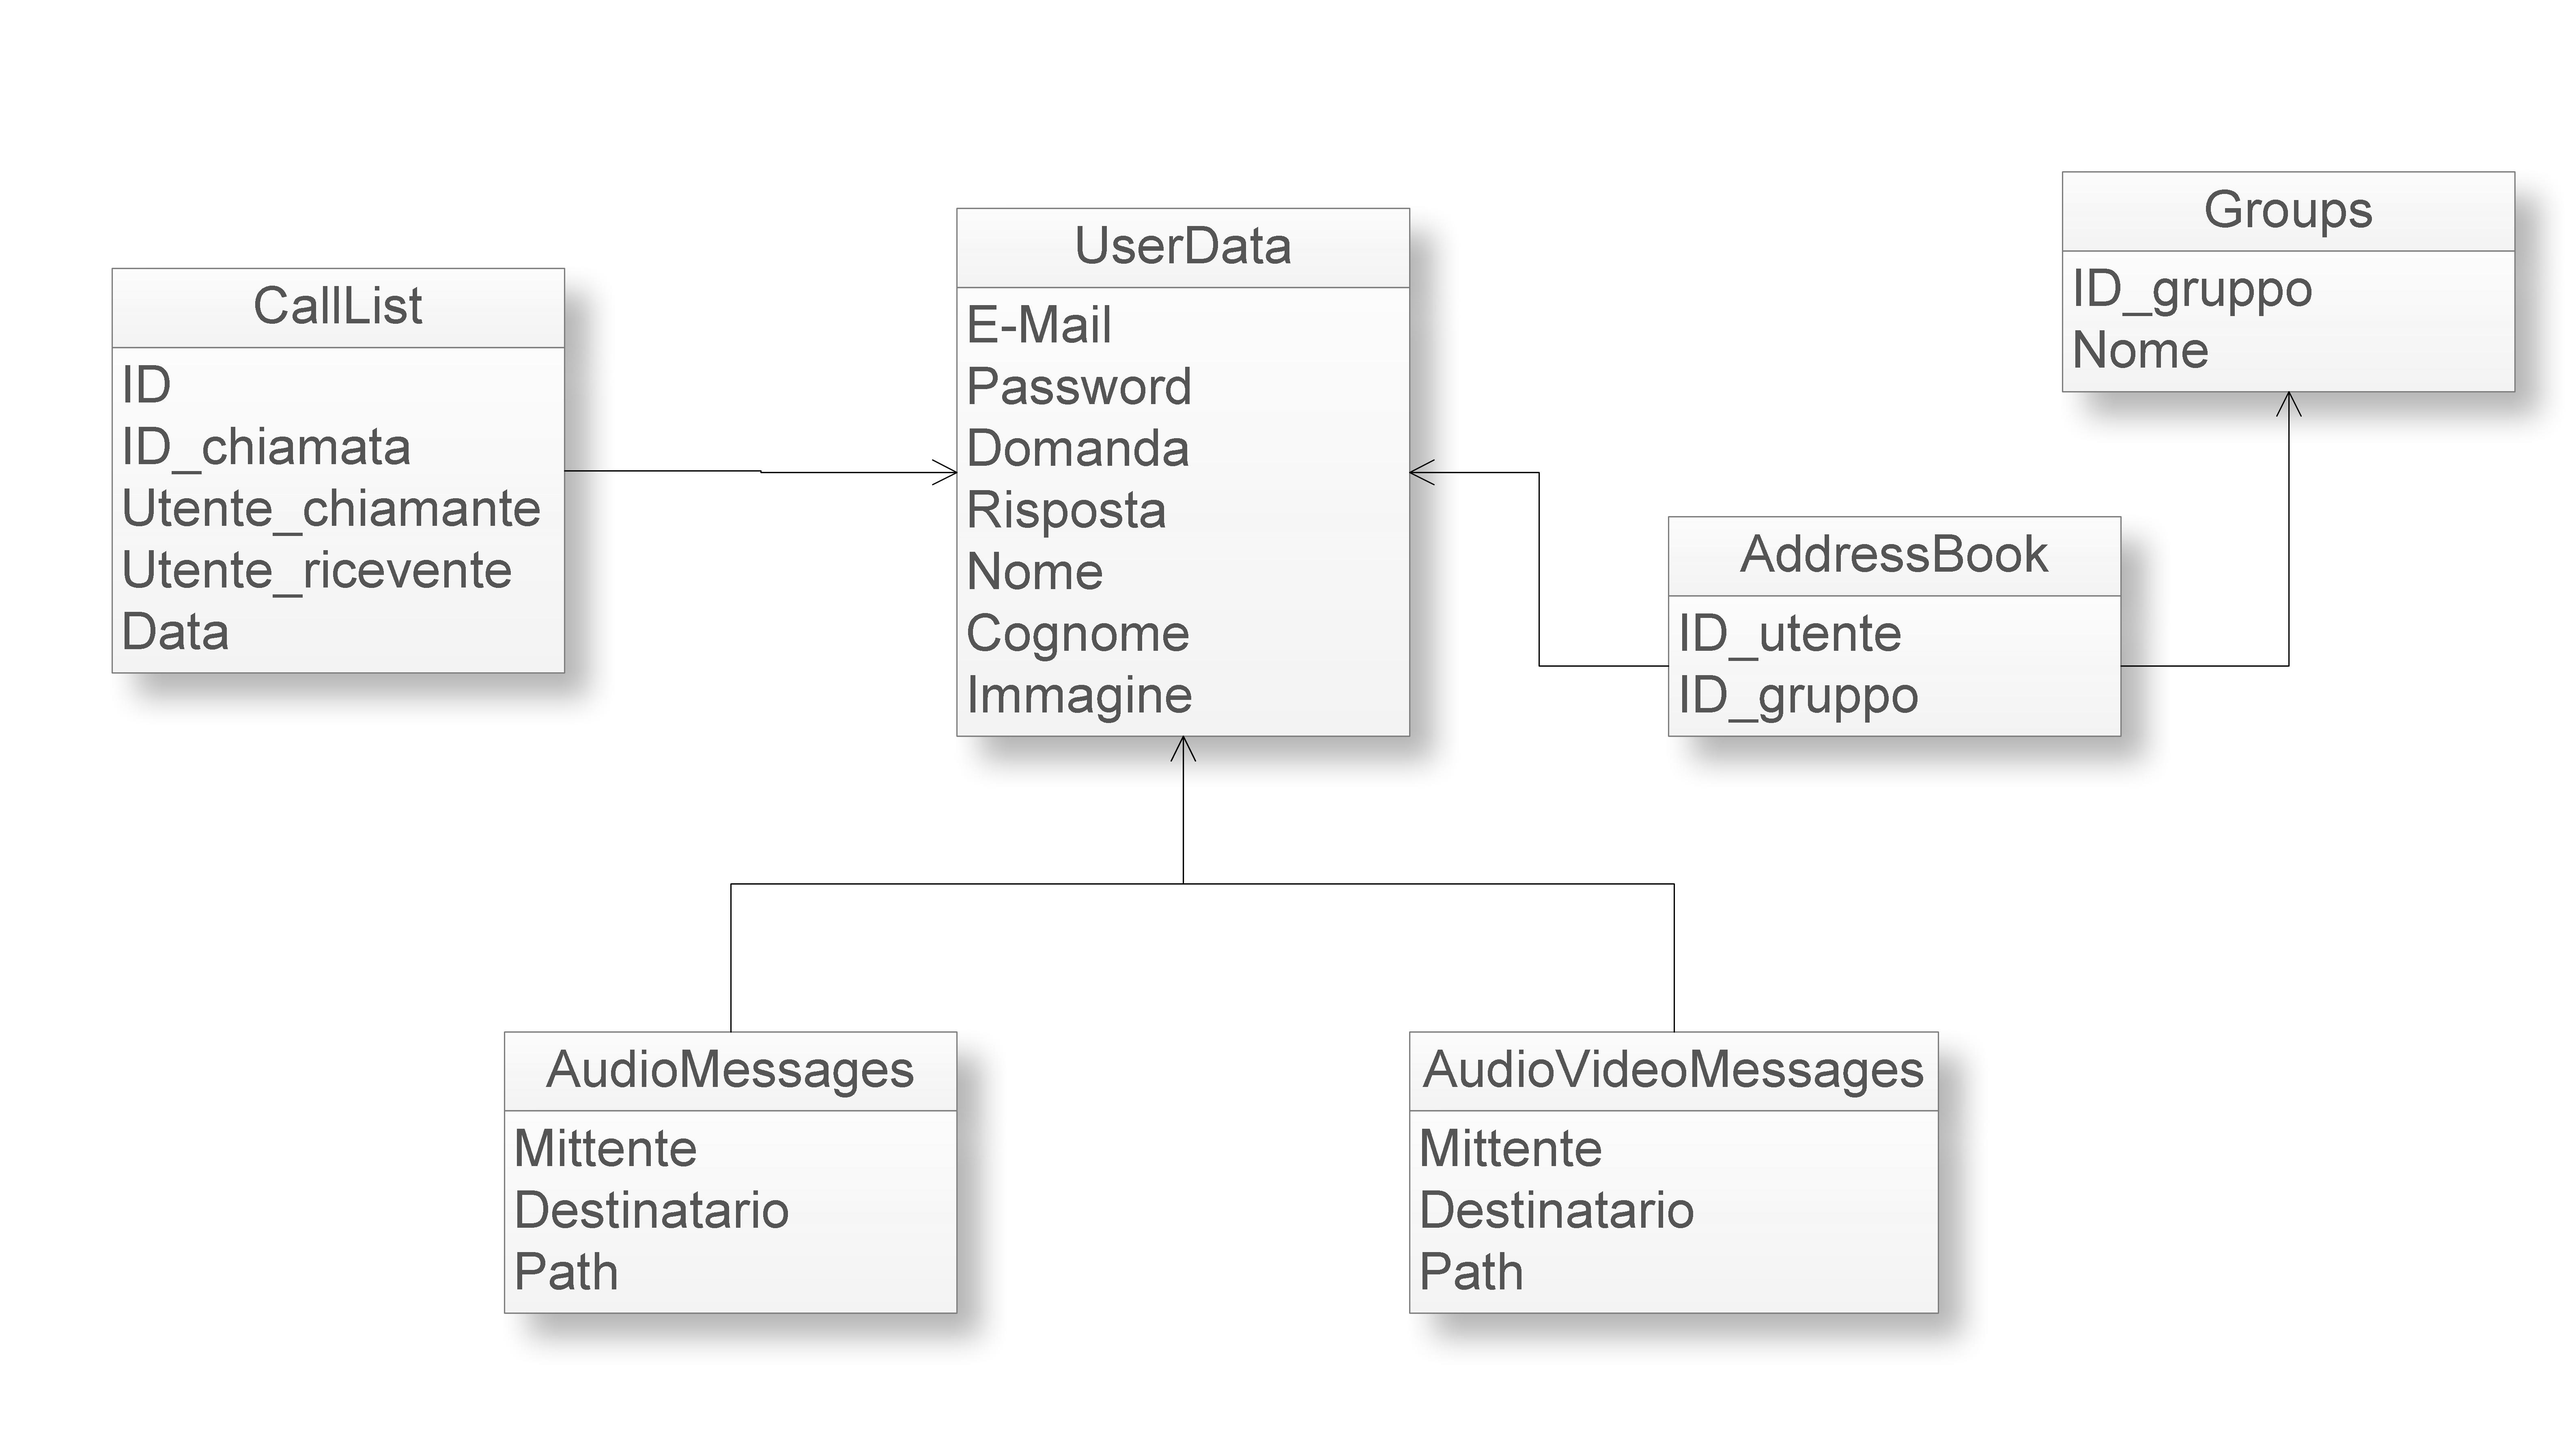
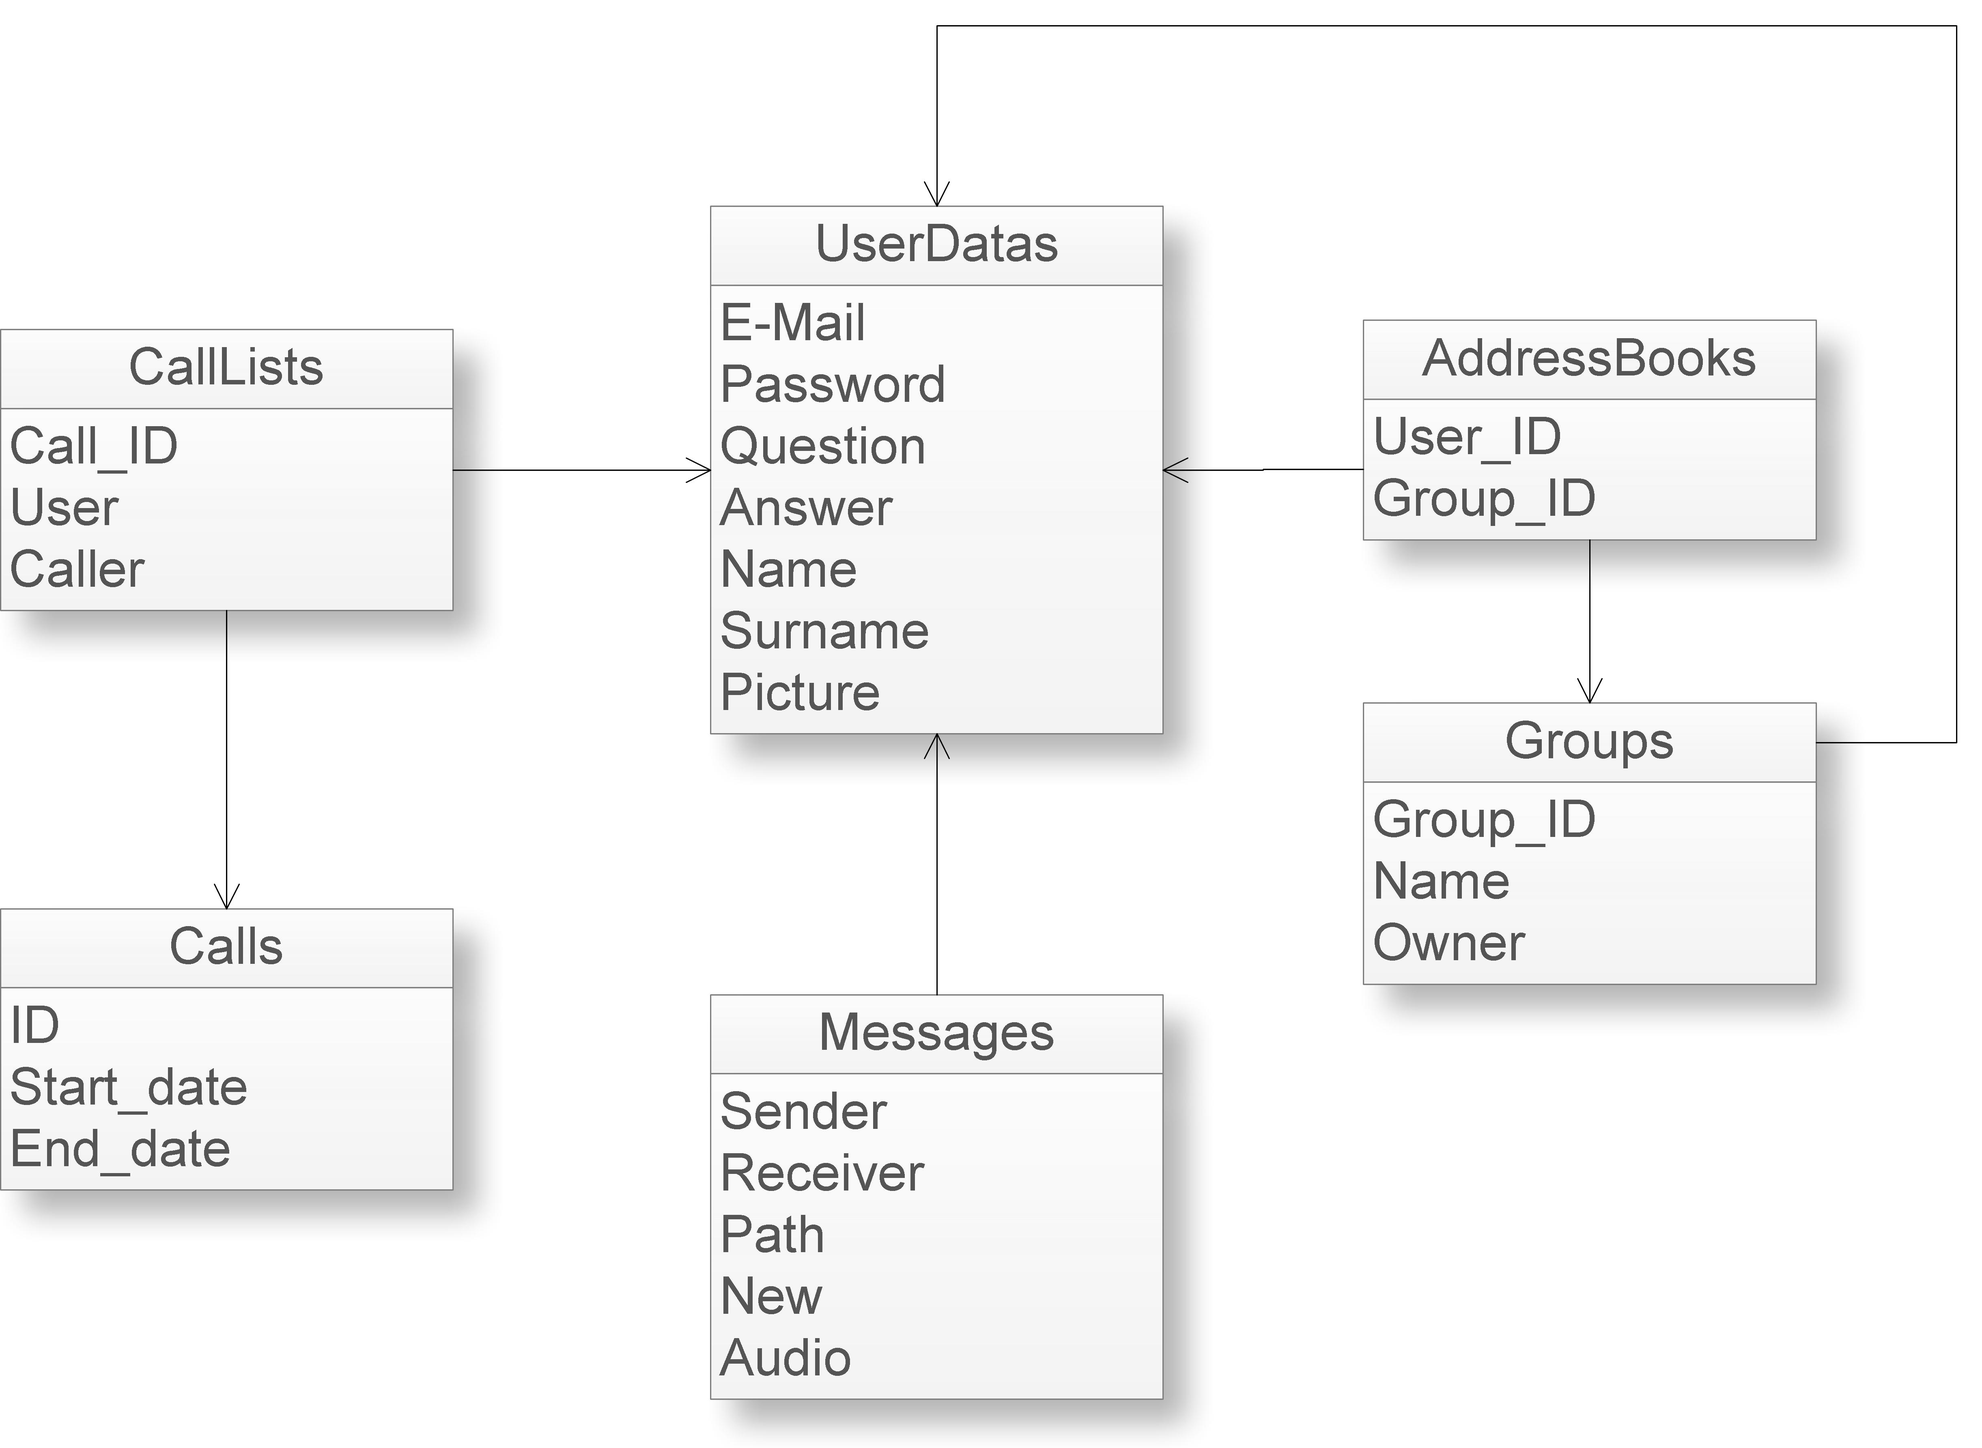
Correzione bug sulla sezione database
Corretti bug sui nomi delle entità e esportata nuovamente l'immagine del
modello logico

diff --git a/Documents/specifica_tecnica/specifica_tecnica.tex b/Documents/specifica_tecnica/specifica_tecnica.tex
@@ -431,7 +431,7 @@ Con la progettazione concettuale definiremo una struttura ``concettuale'' della 
 \subsubsection{Lista delle classi}
 
 \begin{description}
-	\item{\scshape\bfseries UserDatas}: è l'entità le cui istanze rappresentano gli utenti registrati nel sistema. UserDatas è caratterizzata dai seguenti attributi:
+	\item{\scshape\bfseries UserData}: è l'entità le cui istanze rappresentano gli utenti registrati nel sistema. UserData è caratterizzata dai seguenti attributi:
 
 \begin{center}
 \rowcolors{2}{lightblue}{llightblue}
@@ -510,10 +510,10 @@ New & Boolean & NO & \\
 \subsubsection{Associazione tra classi}
 
 \begin{description}
-	\item{\scshape\bfseries UserDatas - Calls (molti a molti)}: tale associazione rappresenta il legame che intercorre tra gli utenti e le chiamate. Tale associazione è del tipo molti a molti, con totalità parziale verso Calls e totalità totale verso UserDatas.
-	\item{\scshape\bfseries UserDatas - Groups (molti a molti)}: tale associazione rappresenta il legame che intercorre tra gli utenti ed i gruppi, per la quale si è deciso di usare un associazione molti a molti con totalità parziale solo da Groups a UserDatas. Ciò significa che: un utente può comparire in zero o più gruppi (in ragione del fatto che potrebbe esserci più di qualcuno che registra un dato utente nella propria rubrica), ed un utente può possedere uno o più gruppi.
-	\item{\scshape\bfseries UserDatas - Groups (uno a molti)}: tale associazione rappresenta il legame che intercorre tra il proprietario del gruppo e il gruppo stesso. L'associazione è del tipo uno a molti, a rappresentare come un gruppo sia visualizzabile unicamente dal proprietario, mentre un utente può avere (e di conseguenza visualizzare) più gruppi.
-	\item{\scshape\bfseries UserDatas - Messages (uno a molti)}: tale associazione rappresenta il legame che intercorre tra gli utenti ed i messaggi registrati nella sua segreteria. L'associazione è del tipo uno a molti verso Messages, con totalità parziale verso Messages e totalità totale verso UserDatas. L'idea alla base è che un utente può avere nella propria segreteria uno o più messaggi, così come può non averne nessuno, mentre ogni messaggio della segreteria è ``visionabile'' da un unico utente, il destinatario del messaggio.
+	\item{\scshape\bfseries UserData - Calls (molti a molti)}: tale associazione rappresenta il legame che intercorre tra gli utenti e le chiamate. Tale associazione è del tipo molti a molti, con totalità parziale verso Calls e totalità totale verso UserData.
+	\item{\scshape\bfseries UserData - Groups (molti a molti)}: tale associazione rappresenta il legame che intercorre tra gli utenti ed i gruppi, per la quale si è deciso di usare un associazione molti a molti con totalità parziale solo da Groups a UserData. Ciò significa che: un utente può comparire in zero o più gruppi (in ragione del fatto che potrebbe esserci più di qualcuno che registra un dato utente nella propria rubrica), ed un utente può possedere uno o più gruppi.
+	\item{\scshape\bfseries UserData - Groups (uno a molti)}: tale associazione rappresenta il legame che intercorre tra il proprietario del gruppo e il gruppo stesso. L'associazione è del tipo uno a molti, a rappresentare come un gruppo sia visualizzabile unicamente dal proprietario, mentre un utente può avere (e di conseguenza visualizzare) più gruppi.
+	\item{\scshape\bfseries UserData - Messages (uno a molti)}: tale associazione rappresenta il legame che intercorre tra gli utenti ed i messaggi registrati nella sua segreteria. L'associazione è del tipo uno a molti verso Messages, con totalità parziale verso Messages e totalità totale verso UserData. L'idea alla base è che un utente può avere nella propria segreteria uno o più messaggi, così come può non averne nessuno, mentre ogni messaggio della segreteria è ``visionabile'' da un unico utente, il destinatario del messaggio.
 \end{description}
 
 \subsection{Progettazione logica}
@@ -528,17 +528,17 @@ Con la progettazione logica intendiamo costruire la struttura definitiva del \un
 \subsubsection{Rappresentazione delle associazioni}
 
 \begin{description}
-	\item{\scshape\bfseries UserDatas - Calls}: tale associazione si è risolta attraverso l'introduzione dell'entità CallList. Tale entità contiene l'attributo User come chiave esterna verso l'entità UserDatas e l'attributo Call\_ID come chiave esterna verso l'entità Calls. È dotata inoltre dell'attributo Caller che identifica colui che ha per primo avviato la chiamata; per ogni gruppo di ennuple aventi lo stesso Call\_ID si avrà soltanto una ennupla contrassegnata con il campo Caller a vero.
-	\item{\scshape\bfseries UserDatas - Groups}: tale associazione si è risolta con la creazione di una terza entità denominata AddressBooks, che contiene una chiave esterna verso UserDatas e una chiave esterna verso Groups.
-	\item{\scshape\bfseries UserDatas - Groups}: tale associazione si è risolta trasformando l'attributo Owner in una chiave esterna verso UserDatas.
-	\item{\scshape\bfseries UserDatas - Messages}: tale associazione si è risolta inserendo una chiave esterna verso UserDatas, all'interno dell'entità Messages.
+	\item{\scshape\bfseries UserData - Calls}: tale associazione si è risolta attraverso l'introduzione dell'entità CallLists. Tale entità contiene l'attributo User come chiave esterna verso l'entità UserData e l'attributo Call\_ID come chiave esterna verso l'entità Calls. È dotata inoltre dell'attributo Caller che identifica colui che ha per primo avviato la chiamata; per ogni gruppo di ennuple aventi lo stesso Call\_ID si avrà soltanto una ennupla contrassegnata con il campo Caller a vero.
+	\item{\scshape\bfseries UserData - Groups}: tale associazione si è risolta con la creazione di una terza entità denominata AddressBooks, che contiene una chiave esterna verso UserData e una chiave esterna verso Groups.
+	\item{\scshape\bfseries UserData - Groups}: tale associazione si è risolta trasformando l'attributo Owner in una chiave esterna verso UserData.
+	\item{\scshape\bfseries UserData - Messages}: tale associazione si è risolta inserendo una chiave esterna verso UserData, all'interno dell'entità Messages.
 \end{description}
 
 \subsubsection{Lista delle classi}
 
 \begin{center}
 
-UserDatas
+UserData
 
 \rowcolors{2}{lightblue}{llightblue}
 \begin{center}
@@ -572,7 +572,7 @@ End\_date & Datetime & SI &\\
 \end{tabular}
 \end{center}
 
-CallList
+CallLists
 
 \begin{center}
 \rowcolors{2}{lightblue}{llightblue}
@@ -581,7 +581,7 @@ CallList
 Nome attributo & Tipo & Opzionale & Vincoli\\
 \midrule % inserire qui il contenuto della tabella
 Call\_ID & int & NO & PrimaryKey e ForeignKey verso Calls\\
-User & Varchar(100) & NO & PrimaryKey e ForeignKey verso UserDatas \\
+User & Varchar(100) & NO & PrimaryKey e ForeignKey verso UserData \\
 Caller & Boolean & NO &\\
 \bottomrule
 \end{tabular}
@@ -595,7 +595,7 @@ AddressBooks
 \toprule
 Nome attributo & Tipo & Opzionale & Vincoli\\
 \midrule % inserire qui il contenuto della tabella
-User\_ID & Varchar(100) & NO & PrimaryKey e ForeignKey verso UserDatas\\
+User\_ID & Varchar(100) & NO & PrimaryKey e ForeignKey verso UserData\\
 Group\_ID & int & NO & PrimaryKey e ForeignKey verso Groups\\
 \bottomrule
 \end{tabular}
@@ -611,7 +611,7 @@ Nome attributo & Tipo & Opzionale & Vincoli\\
 \midrule % inserire qui il contenuto della tabella
 Group\_ID & int & NO & PrimaryKey\\
 Name & Varchar(100) & NO & \\
-Owner & Varchar(100) & NO & ForeignKey verso UserDatas\\
+Owner & Varchar(100) & NO & ForeignKey verso UserData\\
 \bottomrule
 \end{tabular}
 \end{center}	
@@ -625,8 +625,8 @@ Messages
 Nome attributo & Tipo & Opzionale & Vincoli\\
 \midrule % inserire qui il contenuto della tabella
 Path & Varchar(150) & NO & PrimaryKey\\
-Sender & Varchar(100) & NO & ForeignKey verso UserDatas \\
-Receiver & Varchar(100) & NO & ForeignKey verso UserDatas\\
+Sender & Varchar(100) & NO & ForeignKey verso UserData \\
+Receiver & Varchar(100) & NO & ForeignKey verso UserData\\
 New & Boolean & NO & \\
 Audio & Boolean & NO & \\
 \bottomrule
